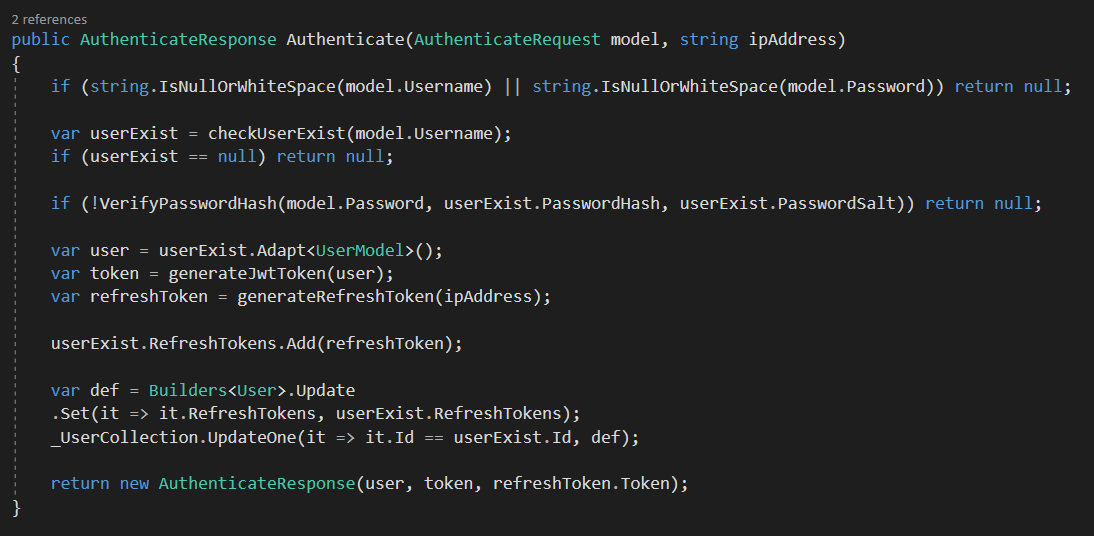
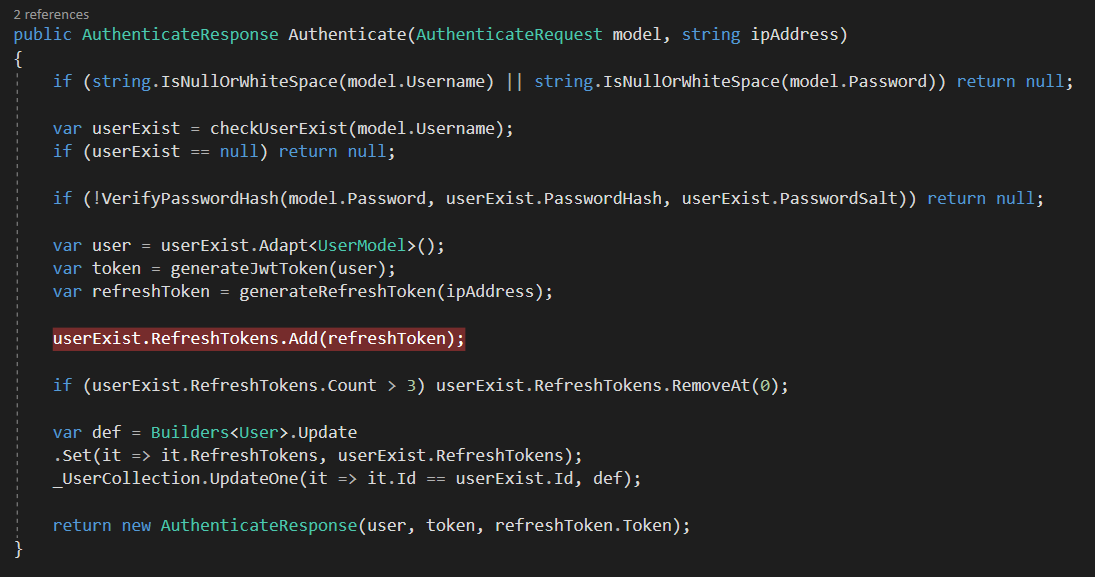
done doc jwt and refresh token api

diff --git a/LoginDemo/src/app/_services/authentication.service.ts b/LoginDemo/src/app/_services/authentication.service.ts
@@ -15,7 +15,8 @@ export class AuthenticationService {
   public currentUser: Observable<User>;
 
   constructor(private http: HttpClient) {
-    this.currentUserSubject = new BehaviorSubject<User>(JSON.parse(localStorage.getItem('currentUser')));
+    // this.currentUserSubject = new BehaviorSubject<User>(JSON.parse(localStorage.getItem('currentUser')));
+    this.currentUserSubject = new BehaviorSubject<User>(null);
     this.currentUser = this.currentUserSubject.asObservable();
   }
 
@@ -26,7 +27,7 @@ export class AuthenticationService {
   login(user: UserLogin) {
     return this.http.post<User>(`${environment.endpointUrl}/Authenticate`, user).pipe(
       map(user => {
-        localStorage.setItem('currentUser', JSON.stringify(user));
+        // localStorage.setItem('currentUser', JSON.stringify(user));
         this.currentUserSubject.next(user);
         return user;
       })
@@ -34,7 +35,7 @@ export class AuthenticationService {
   }
 
   logout() {
-    localStorage.removeItem('currentUser');
+    // localStorage.removeItem('currentUser');
     this.currentUserSubject.next(null);
   }
 }

diff --git a/JwtAuthentication/JwtAuthentication/JwtAuthentication/Services/UserService.cs b/JwtAuthentication/JwtAuthentication/JwtAuthentication/Services/UserService.cs
@@ -201,6 +201,7 @@ namespace JwtAuthentication.Services
                 };
             }
         }
+
         private static void CreatePasswordHash(string password, out byte[] passwordHash, out byte[] passwordSalt)
         {
             if (password == null) throw new ArgumentNullException("password", "Password is required!");

diff --git a/JwtAuthentication/jwt.md b/JwtAuthentication/jwt.md
@@ -5,6 +5,16 @@
 > - สร้าง User
 > - get User ทั้งหมด โดยที่จะต้องได้รับการ authenticate ก่อนจึงจะ authorize ให้เข้า endpoint ตัวนี้ได้
 > - authenticate user
+> - refresh token
+> - revoke token
+> - set refresh token cookies ให้กับ response header
+> - get ip address
+>
+> ![jwtCont1](picture/jwtController1.PNG)
+> ![jwtCont2](picture/jwtController2.PNG)
+> ![jwtCont3](picture/jwtController3.PNG)
+> ![jwtCont4](picture/jwtController4.PNG)
+> ![jwtCont5](picture/jwtController5.PNG)
 >
 > `Note :` endpoint คือ ulr ที่จะใช้ call api
 
@@ -77,7 +87,9 @@
 > ![authenticateReponseModel](picture/authenticateResponseModel.PNG)
 
 > ## Revoke Token Request Model
->
+> เป็น model สำหรับ refresh token ที่จะถูก revoke
+> 
+> ![revokeTokenRequest](picture/revokeTokenRequest.PNG)
 
 > ## UserService
 > จะเอาไว้จัดการ authenticate user , return token , get all user , get use by id
@@ -88,15 +100,27 @@
 >
 > `Note :` ใช้ nuget `System.IdentityModel.Tokens.Jwt` , `Microsoft.IdentityModel.Tokens`
 >
-> - `Authenticate()` => เอาไว้ authenticate user ถ้าผ่านก็จะ generate jwt token,refresh token แล้วเก็บ refresh token ขึ้นไปบน Database เป็น list ของ refresh token แล้ว return response data user ที่มี jwt token , refresh token กลับไป
+> - `Authenticate()` => เอาไว้ authenticate user ถ้าผ่านก็จะ generate jwt token,refresh token แล้วเก็บ refresh token ขึ้นไปบน Database เป็น list ของ refresh token แล้ว return response data user ที่มี jwt token , refresh token กลับไป (`โดย jwt token กับ user data จะอยู่ใน response body ส่วน refresh token จะอยู่ใน response header`)
 > ![jwt1](picture/jwt6.PNG)
 >
-> - `RefreshToken()`=> รับ active refresh token เข้ามาแล้ว return user data ที่มี Jwt Token กับ refresh token ตัวใหม่กลับไป refresh token ตัวเก่าจะถูก revoke ไม่สามารถเอามาใช้ได้อีก \
+> - `RefreshToken()`=> รับ active refresh token เข้ามาแล้ว return user data ที่มี Jwt Token กับ refresh token ตัวใหม่กลับไป refresh token ตัวเก่าจะถูก revoke ไม่สามารถเอามาใช้ได้อีก (`จะถูกเรียกเรื่อยๆจาก client เมื่อ token ใกล้จะหมดอายุ`) \
 > `Note : ` การที่ใช้ refresh token ขอ jwt token ใหม่ พร้อม refresh token ใหม่ โดยที่ refresh token เก่าจะถูก revoke ไม่สามารถใช้ได้อีก เราเรียกการทำแบบนี้ว่า `refresh token rotation` การทำแบบนี้จะช่วยเพิ่ม security ให้ app เพราะ refresh token จะมีอายุการใช้งานที่สั้น เมื่อมีการ rotate ตัว refresh token ตัวใหม่จะถูกเก็บไว้ที่ฟีลด์ ReplacedByToken ของ revoke token
-> - `RevokeToken()` => จะรับ active refresh token เข้ามาแล้ว revoke ให้มันไม่สามารถใช้งานได้อีก refresh token จะถูก revoke เมื่อมันมี revoke date และ ipAddress ของ user ที่ถูก revoke token จะเก็บไว้ที่ฟีลด์ RevokedByIp 
+> ![userService](picture/jwt6-2.PNG)
+>
+> - `RevokeToken()` => จะรับ active refresh token เข้ามาแล้ว revoke ให้มันไม่สามารถใช้งานได้อีก refresh token จะถูก revoke เมื่อมันมี revoke date และ ipAddress ของ user ที่ถูก revoke token จะเก็บไว้ที่ฟีลด์ RevokedByIp (`จะถูก call เมื่อมีการ logout ออกจากระบบ`)
+> ![userService2](picture/jwt6-3.PNG)
+>
 > - `generateJwtToken()` => ใช้ generate Jwt Token ที่จะหมดอายุ 15 นาที
+> ![userService3](picture/jwt7.PNG)
+>
 > - `generateRefreshToken()` => ใช้ generate refresh token ที่จะหมดอายุ 7 วัน
-> ![jwt2](picture/jwt7.PNG)
+> ![userService4](picture/jwt6-4.PNG)
+>
+> - `CreatePasswordHash`=> ใช้ generate password hash
+> ![userService5](picture/jwt6-5.PNG)
+>
+> - `VerifyPasswordHash` => ใช้ verify password hash
+> ![userService6](picture/jwt6-6.PNG)
 
 > ## JWT appsettings.json
 > เอาไว้ config ค่าต่างเช่น secretKey, connectionString, DbName ,ชื่อ collection บน Database
@@ -118,4 +142,6 @@
 > `Note : ` ใน configure เราจะจัดการเกี่ยวกับ global CORS policy , จัดการ request เพื่อตรวจสอบ authenticate user ผ่าน JwtMiddleware 
 
 > ## Refresh Token
+> เอาไว้ใช้ขอ Token ใหม่เมื่อหมดอายุ โดย refresh token จะถูกเก็บไว้ที่ database เพื่อใช้ในการเช็คในการร้องขอ token ใหม่ว่ามีสิทธิ์มั้ย ?
 >
+>`Note :` ในตอนที่ Authenticate User จะได้ข้อมูล User พร้อมทั้ง token response body กลับไป ส่วน refresh token จะเก็บไว้ใน Http Cookie บน Http response header

diff --git a/JwtAuthentication/BasicAuth.md b/JwtAuthentication/BasicAuth.md
@@ -63,3 +63,5 @@ Http protocol จะรับส่ง data โดยส่ง request ไปท
 > - https://jasonwatmore.com/post/2020/04/19/angular-9-jwt-authentication-example-tutorial (`Jwt Angular`)
 > - https://jasonwatmore.com/post/2020/05/25/aspnet-core-3-api-jwt-authentication-with-refresh-tokens (`refresh token Dotnet`)
 > - https://jasonwatmore.com/post/2020/05/22/angular-9-jwt-authentication-with-refresh-tokens (`refresh token angular`)
+> - https://anurocha.com/2016/07/28/http-basic/ (`Http`)
+> - https://medium.com/icreativesystems/basic-http-3a2b05e5aa19 (`Http`)
